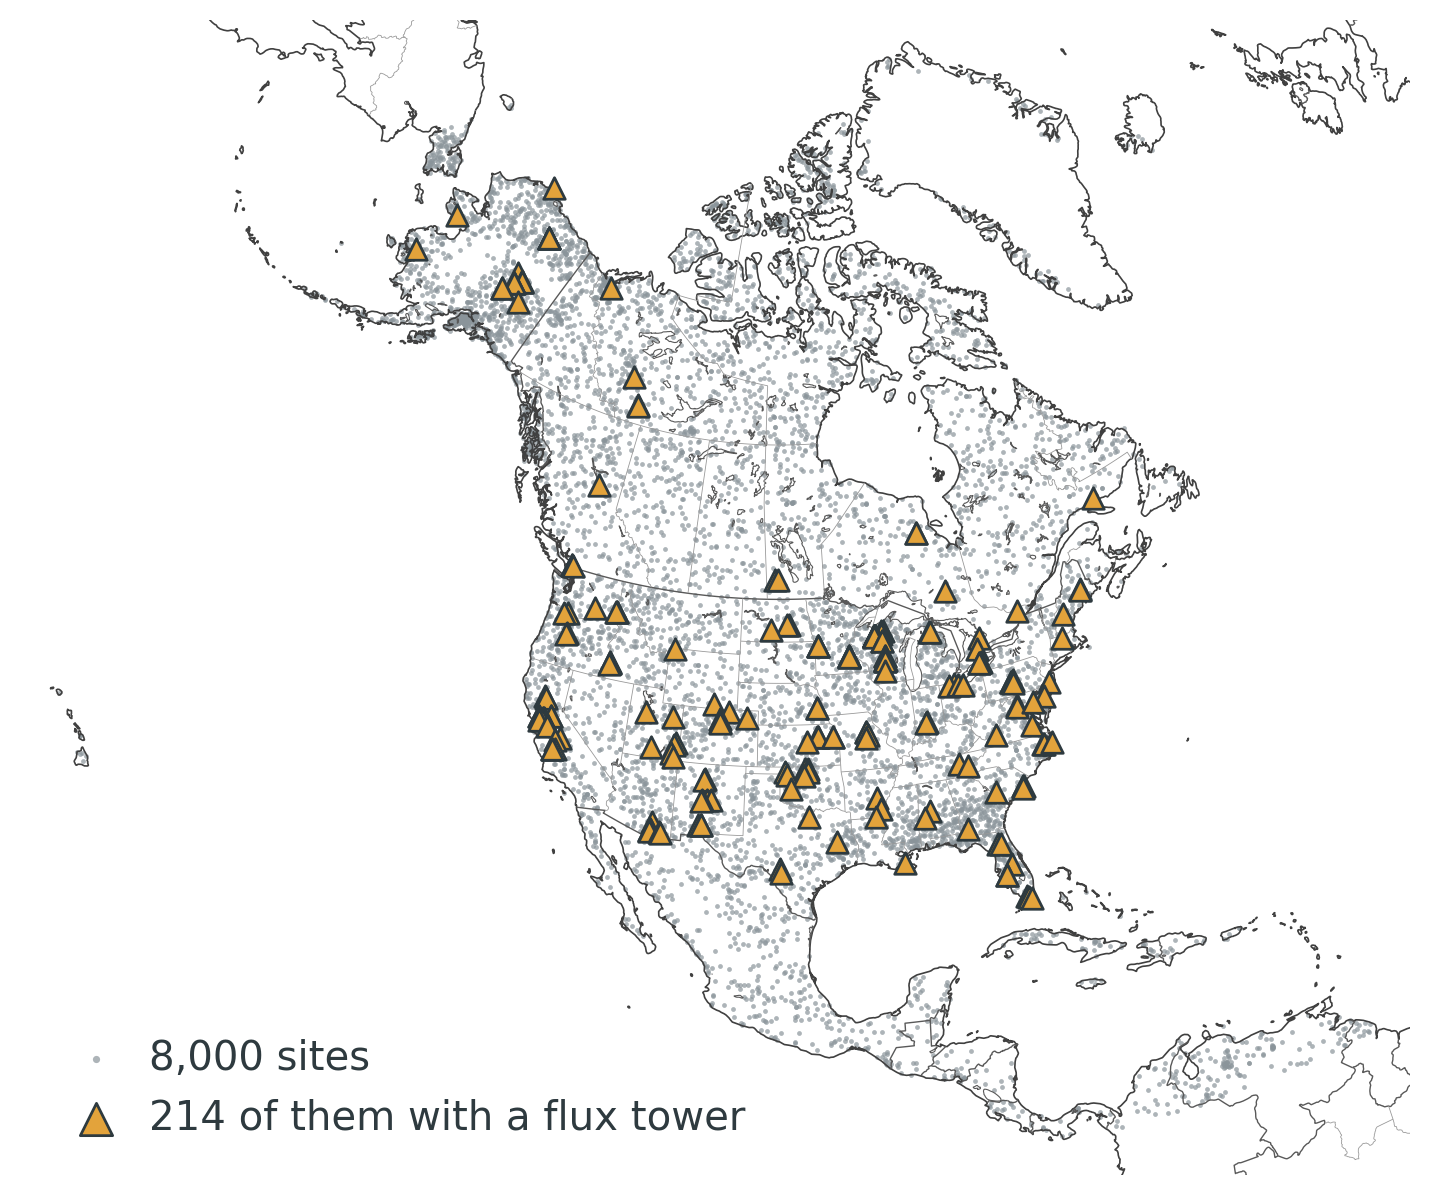
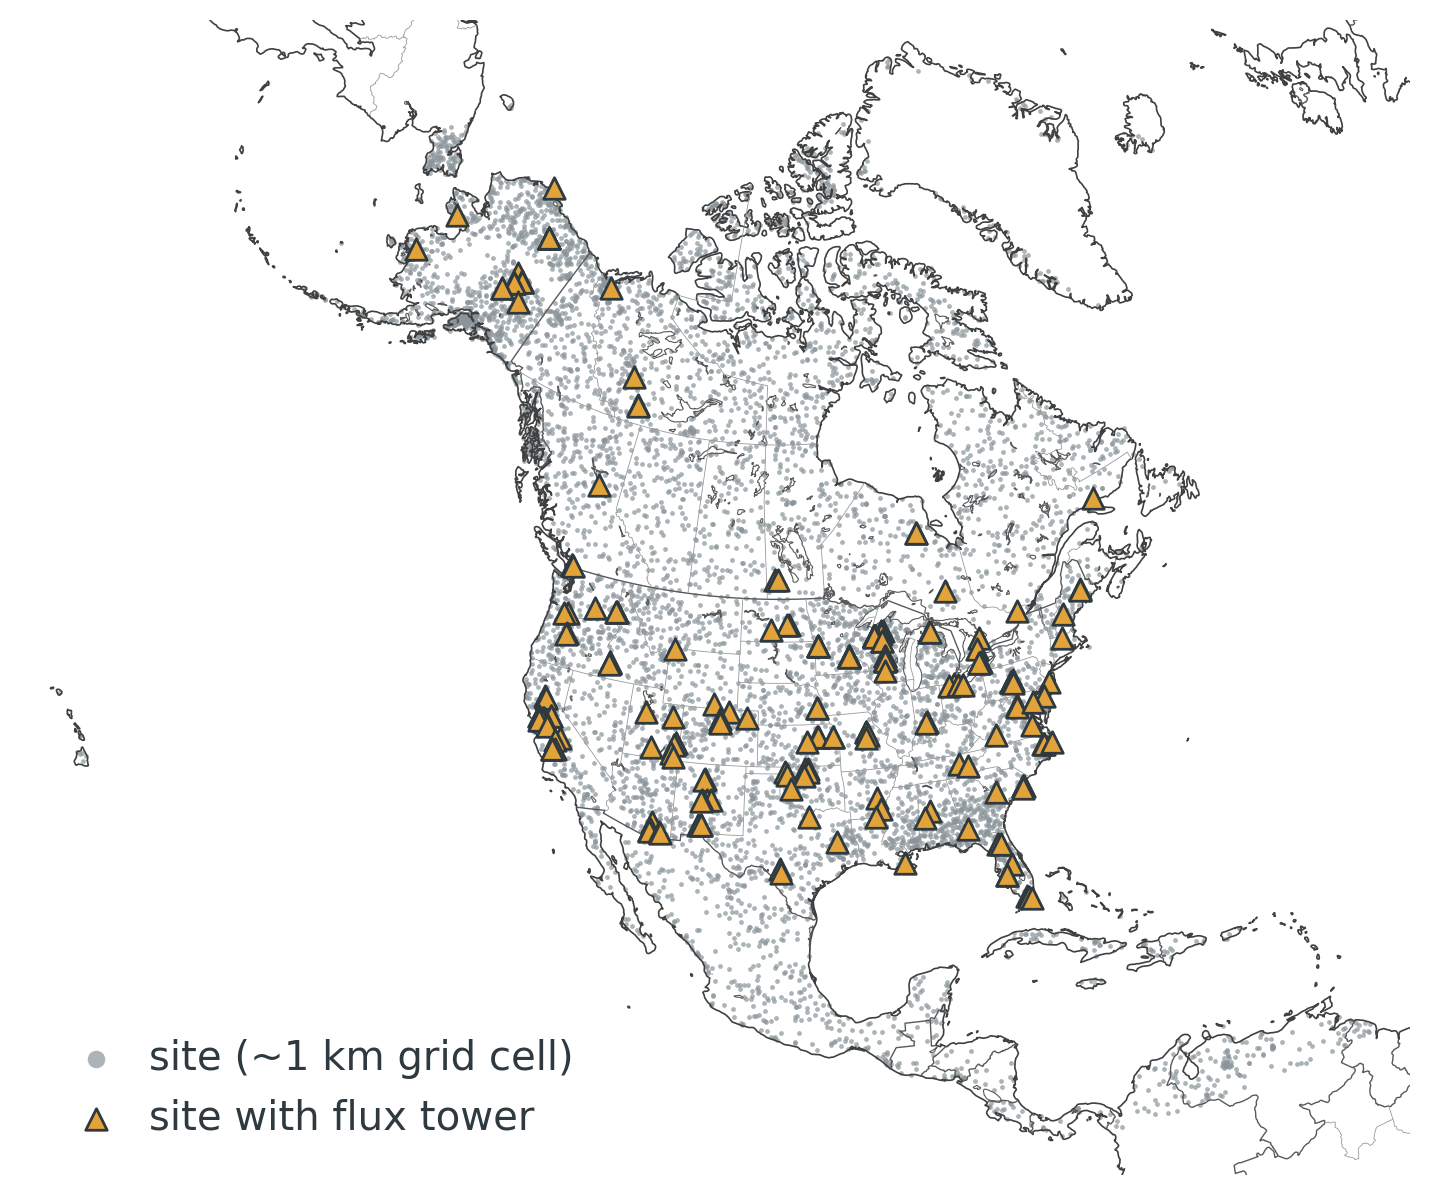
Rework slides 2 and 3: the site map with options, then the spatial prior
Slide 2, "Spatial structure", shows the site map alone beside three
calibration options that appear one click each; the map's legend now
labels sites as ~1 km grid cells and sites with a flux tower. Slide 3,
"A first step: spatial parameter calibration", shows three prior draws
over the site pool, then the prior model on click. Drops the setup
variables the slides no longer use.

Changed region(s): [[0.0616, 0.8669, 0.5234, 0.9598]]

diff --git a/experiments/presentation_aimes_talk/slides.css b/experiments/presentation_aimes_talk/slides.css
@@ -58,10 +58,21 @@
   text-align: center;
 }
 
-/* Bullets beside a figure, set a little smaller. */
-.reveal .smaller-list li {
-  font-size: 0.8em;
-  margin-bottom: 0.4em;
+/* Columns centered vertically on each other. Quarto's columns are inline
+   blocks, so this is vertical-align, not flexbox. */
+.reveal .centered-columns > .column {
+  vertical-align: middle;
+}
+
+/* The prior model under the prior draws. */
+.reveal .prior-model {
+  text-align: center;
+  margin-top: 0.6em;
+}
+
+/* The options beside the site map, spaced out. */
+.reveal .options-list li {
+  margin-bottom: 1.1em;
 }
 
 /* The scalable method's three steps, stacked with arrows between. */

diff --git a/experiments/presentation_aimes_talk/plots.py b/experiments/presentation_aimes_talk/plots.py
@@ -65,13 +65,14 @@ def site_pool_map(north_america: NorthAmericaPrior) -> Figure:
     _north_america_frame(ax, x, y)
     ax.scatter(
         x[~is_tower], y[~is_tower], s=3, color=PALETTE["stone"], alpha=0.7, linewidth=0,
-        label=f"{len(x):,} sites",
+        label="site (~1 km grid cell)",
     )
     ax.scatter(
         x[is_tower], y[is_tower], **{**SITE_MARKERS["tower"], "s": 60},
-        label=f"{is_tower.sum()} of them with a flux tower",
+        label="site with flux tower",
     )
-    ax.legend(loc="lower left", markerscale=1.5, handletextpad=0.3)
+    legend = ax.legend(loc="lower left", handletextpad=0.3)
+    legend.legend_handles[0].set_sizes([40])  # the sites' 3-point dots, legible in the legend
     return fig
 
 
